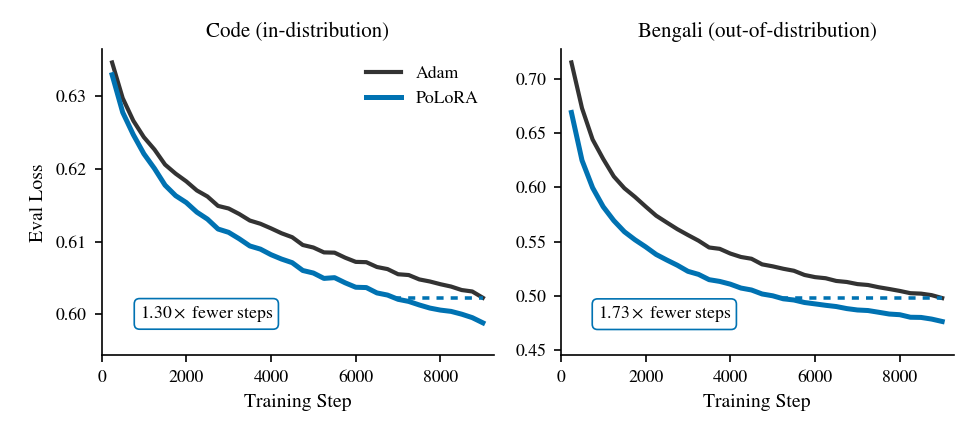
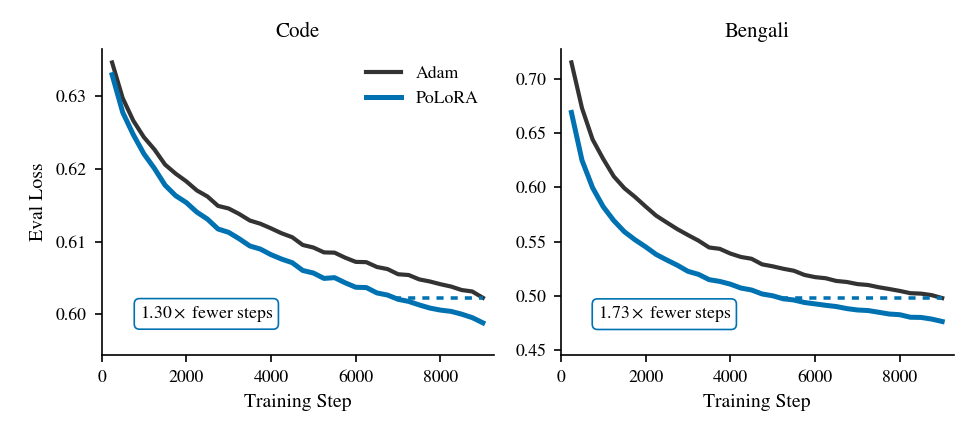
paper: drop ID/OOD coinage (prose, caption, figure panels); headroom reading; KL-Shampoo sentence rework

Changed region(s): [[0.6462, 0.0598, 0.8923, 0.0897], [0.2154, 0.0299, 0.4, 0.0897], [0.0308, 0.3885, 0.0615, 0.5379]]

diff --git a/paper/manuscript/main.tex b/paper/manuscript/main.tex
@@ -550,15 +550,15 @@ $256$ & $1.63\times$ & $1.58\times$ \\
   \label{fig:lr_transfer}
 \end{figure}
 
-\paragraph{Distribution shift.} Coding data is well represented in the pretraining data for the Qwen2.5-1.5B model~\cite{qwen25}. On the other hand, data for a low-resource language like Bengali is much less present. We therefore informally refer to the code dataset as in-distribution and the Bengali dataset (Aya \cite{aya}) as out-of-distribution. From \Cref{fig:ood} we observe that the speedup over Adam is larger on Bengali than on code.
+\paragraph{Distribution shift.} Coding data is well represented in the pretraining data of the Qwen2.5-1.5B model~\cite{qwen25}, while data for a low-resource language like Bengali is much less present. From \Cref{fig:ood} we observe that the speedup over Adam is larger on the Bengali dataset (Aya \cite{aya}) than on code. This is consistent with the advantage of \methodname{} growing as finetuning must move the model further from its pretraining data.
 
 \begin{figure}[t]
   \centering
   \includegraphics[width=\linewidth]{fig_ood.pdf}
-  \caption{\textbf{The speedup over Adam is larger out of distribution.}
+  \caption{\textbf{The speedup over Adam is larger on the low-resource language.}
   Evaluation loss over training steps on Qwen2.5-1.5B at rank $r = 256$,
-  finetuned on the in-distribution code dataset (left)
-  and the out-of-distribution Bengali dataset (right).}
+  finetuned on the code dataset (left)
+  and the Bengali dataset (right).}
   \label{fig:ood}
 \end{figure}
 
@@ -593,7 +593,7 @@ for a weight matrix, producing an update equal to the matrix sign of the momentu
 gradient~\cite{polarexpress} (\Cref{lem:muon-lmo}). Shampoo~\cite{shampoo},
 SOAP~\cite{soap}, and KL-Shampoo~\cite{klshampoo} estimate the gradient curvature as
 Kronecker-factored second moments. Mousse~\cite{mousse} uses such a second moment estimate to
-whiten the gradient before a matrix-sign step (\Cref{app:related-spectral}). \methodname{} likewise applies a matrix-sign step to a preconditioned gradient, with a metric derived from controlling the per-sample loss change across the batch (\Cref{sec:sample-loss-lmo}). We carry this update from the full weight matrix to the LoRA product and add magnitude control, which removes the need for learning-rate grafting~\cite{shi2023distributed, mousse}. The metric itself is fit by adapting KL-Shampoo to LoRA, from the factor gradients alone and without forming the weight gradient (\Cref{app:matnormal}).
+whiten the gradient before a matrix-sign step (\Cref{app:related-spectral}). \methodname{} likewise applies a matrix-sign step to a preconditioned gradient, with a metric derived from controlling the per-sample loss change across the batch (\Cref{sec:sample-loss-lmo}). We carry this update from the full weight matrix to the LoRA product and add magnitude control, which removes the need for learning-rate grafting~\cite{shi2023distributed, mousse}. We adapt the KL-Shampoo estimator to LoRA, fitting the preconditioners from the factor gradients rather than the weight gradient (\Cref{app:matnormal}).
 
 \paragraph{Product-invariant LoRA optimizers.}
 The learned update $BA$ is a product of two matrices, so it is determined only up to the
